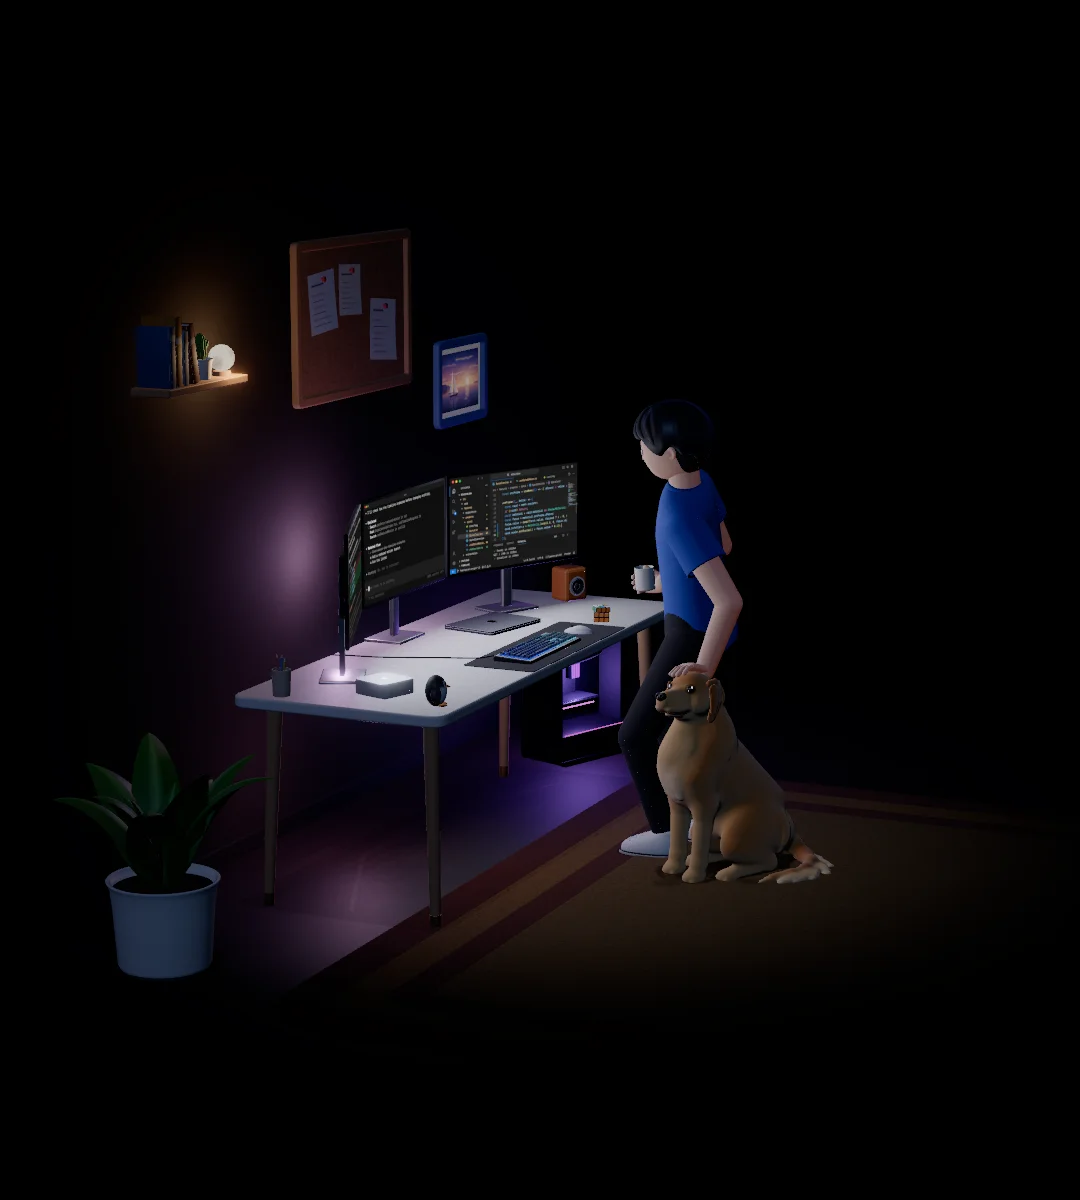
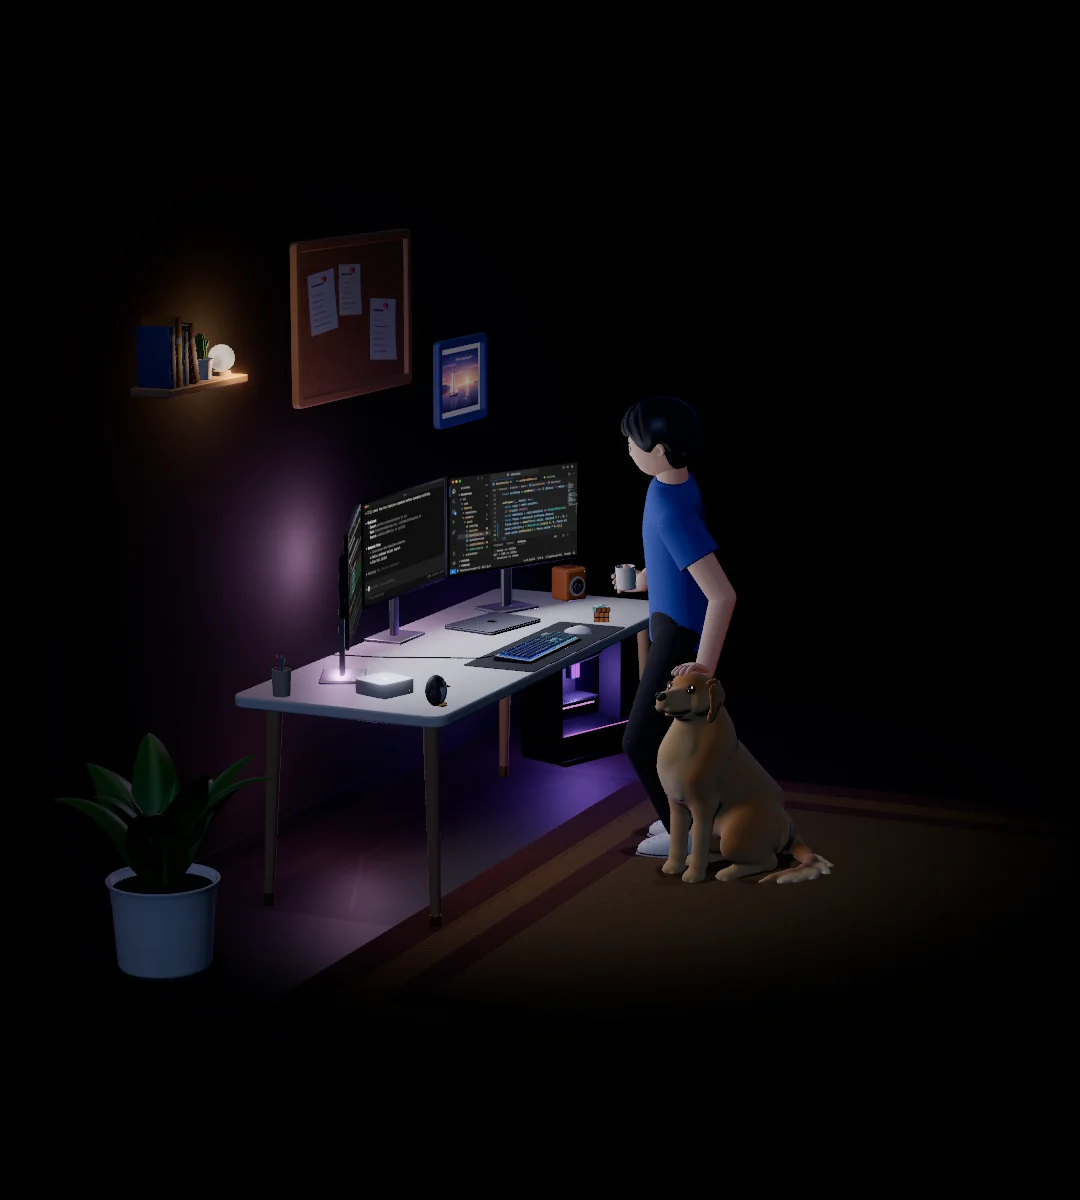
Stand Edison square beside the dog
He had one foot forward and one back, his hip pushed out and his body
twisted, so the legs looked tangled behind the dog. Now his feet sit
side by side under his hips, his hips are level, and he stands a step
back and turned toward the camera with the dog at his left hip, leaning
only a little to rest his hand on its head with a soft elbow. The About
previews are captured again.

Changed region(s): [[0.55, 0.3392, 0.7028, 0.5858], [0.5806, 0.6475, 0.6417, 0.7092]]

diff --git a/src/features/workstation/character/rig/standingPose.ts b/src/features/workstation/character/rig/standingPose.ts
@@ -25,10 +25,10 @@ type Gesture = keyof typeof TIMING | 'idle';
 const GESTURES: readonly Gesture[] = ['sip', 'think', 'dog', 'idle', 'think', 'sip', 'dog', 'think', 'idle', 'sip', 'think', 'dog'];
 const gestureIn = (slot: number) => GESTURES[((slot % GESTURES.length) + GESTURES.length) % GESTURES.length];
 
-/** Planted feet, toes turned out, the right one a little behind and carrying most of his weight. */
+/** Feet side by side under his hips, about shoulder width apart, toes turned a little out. */
 export const STANDING_FEET: Record<LimbName, { x: number; z: number; turn: number }> = {
-  left: { x: 0.09, z: 0.12, turn: 0.08 },
-  right: { x: -0.13, z: -0.015, turn: -0.26 },
+  left: { x: 0.11, z: 0.02, turn: 0.14 },
+  right: { x: -0.11, z: 0.0, turn: -0.16 },
 };
 
 /** Share of the way down to the screens the head tips while he reads them. */
@@ -66,12 +66,12 @@ export function standingPose(t: number, motion: number, seed: number, pose: Body
   // The mug tips toward his lips only once it is up there.
   const tip = sip * sip;
 
-  // Weight on his right leg, hip out that way, shoulders leaning toward the dog on his left so the
-  // left arm reaches its head with a soft elbow. He turns a little toward the dog too.
-  pose.pelvisPosition.set(-0.02 + 0.006 * sway, BODY.standingPelvisHeight - 0.025 - 0.002 * Math.abs(sway), 0.004);
-  pose.pelvis.set(0.01, 0.07 + 0.02 * sway, -0.035 + 0.012 * sway);
-  pose.spine.set(0.06 + 0.006 * breath + 0.02 * think + 0.03 * dog, 0.05 + 0.03 * dog, -0.12 - 0.008 * sway);
-  pose.chest.set(0.02 - 0.012 * breath + 0.02 * think, 0.03 + 0.05 * dog - 0.04 * sip, -0.06);
+  // Standing square with a slight lean of the shoulders toward the dog on his left, so the left arm
+  // reaches its head with a soft elbow. He turns a little toward the dog too.
+  pose.pelvisPosition.set(-0.01 + 0.006 * sway, BODY.standingPelvisHeight - 0.022 - 0.002 * Math.abs(sway), 0.004);
+  pose.pelvis.set(0.01, 0.03 + 0.02 * sway, -0.02 + 0.012 * sway);
+  pose.spine.set(0.06 + 0.006 * breath + 0.02 * think + 0.03 * dog, 0.05 + 0.03 * dog, -0.1 - 0.008 * sway);
+  pose.chest.set(0.02 - 0.012 * breath + 0.02 * think, 0.03 + 0.05 * dog - 0.04 * sip, -0.05);
   pose.shrug.left = -0.014 + 0.003 * breath;
   pose.shrug.right = 0.004 * breath + 0.004 * sip + 0.003 * think;
   pose.reach.left = 0.006;

diff --git a/src/features/workstation/character/placement.ts b/src/features/workstation/character/placement.ts
@@ -20,9 +20,9 @@ export const SEATED_PLACEMENT: Placement = {
 
 /**
  * Origin of the standing pose is the floor between the feet. In front of the middle of the desk,
- * a step back from its edge, turned a little toward the left monitors and the about camera.
+ * a step back from its edge, turned toward the left monitors and the about camera, with the dog at his left hip.
  */
 export const STANDING_PLACEMENT: Placement = {
-  position: [0.24, 0, 0.42],
-  rotationY: Math.PI + 0.15,
+  position: [0.26, 0, 0.36],
+  rotationY: Math.PI + 0.3,
 };
